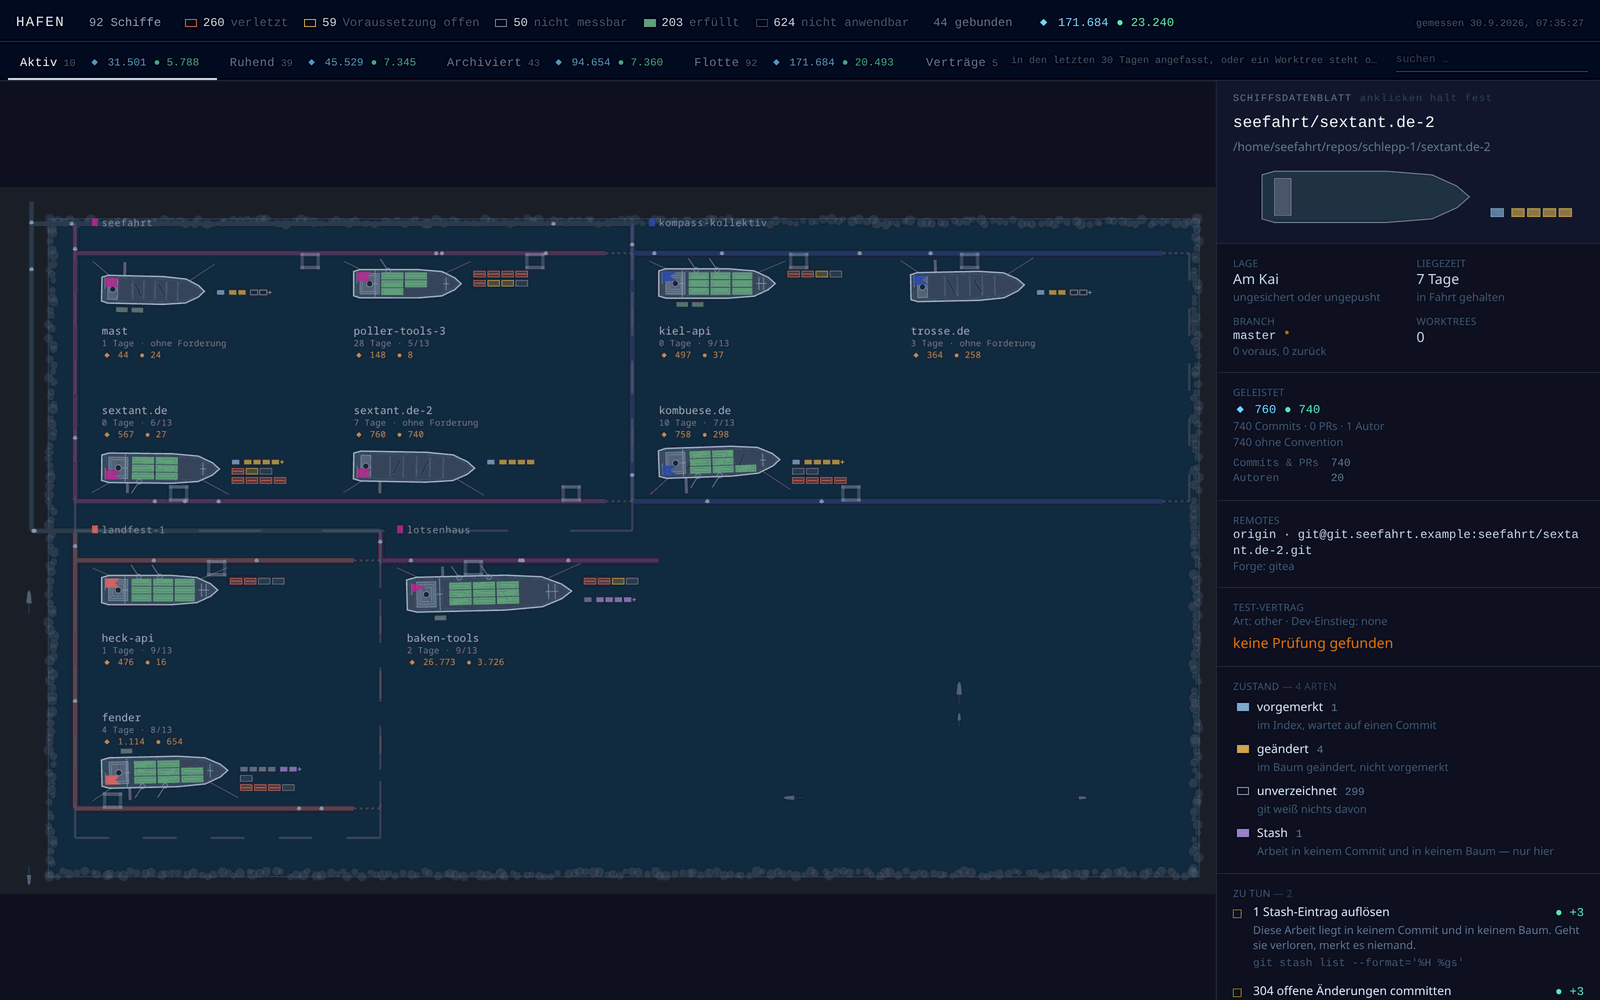
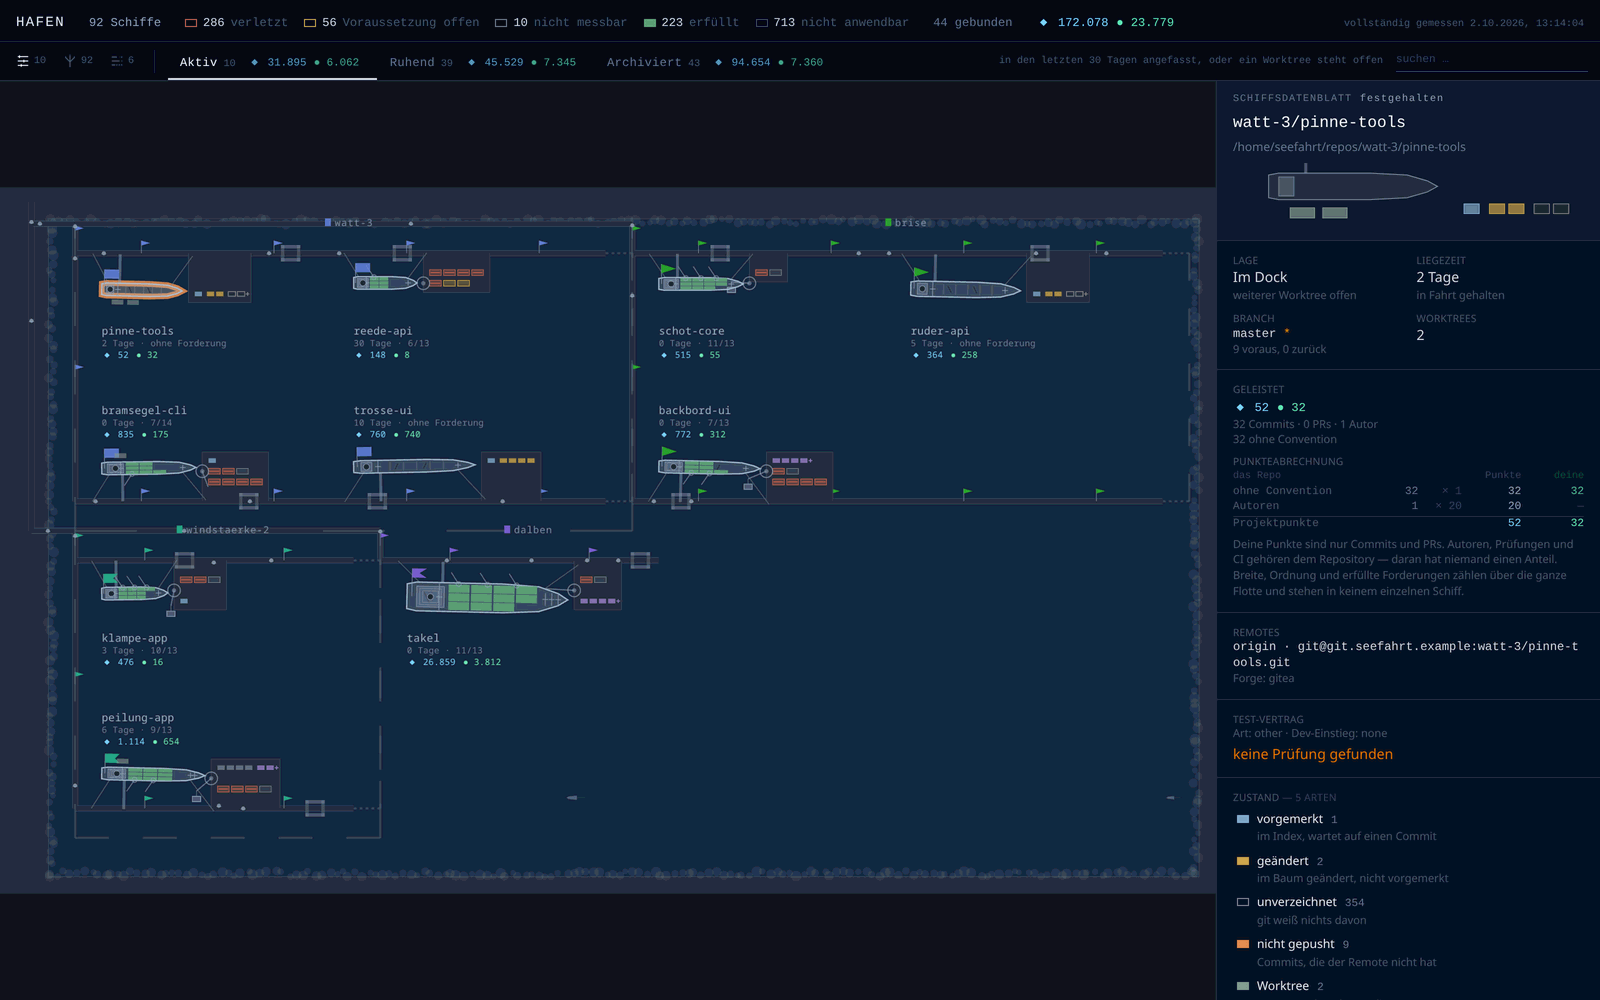
docs: frische Bilder und Direktlinks auf den letzten Release
Die drei Bilder sind neu aufgenommen, auf einem anonymisierten Schnappschuss
vom 02.10.2026. Das Flottenblatt ist inzwischen nach Reederei geordnet statt
als Faecher, das Datenblatt traegt die Punkteabrechnung, der Katalog die Quest
`aktualisierung`. Die Anonymisierung laeuft jetzt feldweise: der Schnappschuss
traegt seit dem letzten Mal Remote-URLs fremder Orgas, Lineage, Branch-Namen
und Wurzel-SHAs, ueber die sich ein Repo per Suche finden laesst.

Installieren bietet die Pakete direkt an. release-please zieht die Versionen
als generic extra-file nach. Es ersetzt je Zeile nur das erste Vorkommen,
deshalb eine Version pro Zeile und `latest/download`. Das rpm zeigt auf die
Release-Seite: `Hafen-1.0.0-1.x86_64.rpm` liest der Updater als Pre-Release
und machte daraus `Hafen-1.1.0.rpm`. Geprueft mit dem echten Generic-Updater
gegen 1.1.0 -- genau die sieben gewollten Zeilen aendern sich.

Claude-Session: https://claude.ai/code/session_01Mx2a25YLH5ayTJ76yYJ4RT

diff --git a/README.md b/README.md
@@ -3,7 +3,7 @@
 Eine Übersicht über alle Git-Repos einer Maschine: Zustand, Test-Vertrag, und was die Flotte von
 ihnen fordert — mit der Evidenz hinter jedem Urteil.
 
-![Die Flotte als Fächer: ein Ast je Organisation, ein Rumpf je Repository](docs/flotte.png)
+![Die ganze Flotte auf einem Blatt, nach Reederei: ein Rumpf je Repository](docs/flotte.png)
 
 ## Wozu
 
@@ -31,17 +31,17 @@ im schlimmsten Fall über einen neuen lesenden Aufruf.
 
 Das ist der Punkt, an dem das Vorgängerprojekt gescheitert ist: ein Agenten-Cockpit, in dem jede
 Messung die nächste Aufgabe rechtfertigte — 295 Auftragsdateien, und die Projekte, um die es ging,
-standen still. Was ein Werkzeug *tun* kann, kostet Aufmerksamkeit. Was es nur misst, nicht.
+standen still. Was ein Werkzeug _tun_ kann, kostet Aufmerksamkeit. Was es nur misst, nicht.
 
 Dieses Werkzeug läuft in achtzig-plus Arbeitsbäumen, die **nicht alle unsere** sind. Deshalb die
 Grenze, und deshalb bleibt der Store lokal.
 
-![Ein Schiff mit Datenblatt: Ladung, Flaggen, Schäden und was heute zu tun wäre](docs/schiff.png)
+![Ein Band mit festgehaltenem Schiff: Ladung und Flaggen am Schiff, Punkte und Zustand im Datenblatt](docs/schiff.png)
 
 Jedes Repository ist ein Schiff, und jedes Merkmal eine eigene Messung: die Rumpflänge sind die
 Punkte, die Masten die erfüllten Forderungen, der Rost die Liegezeit seit dem letzten Commit, die
 Figuren am Steg die Zahl der Autoren. Keine Zusammenfassung zu einer Note — ein großes Schiff mit
-verletztem Vertrag soll geschäftig *und* falsch aussehen, nicht mittelmäßig.
+verletztem Vertrag soll geschäftig _und_ falsch aussehen, nicht mittelmäßig.
 
 ## Benutzen
 
@@ -59,13 +59,37 @@ Ohne Argument steht die Hilfe da. Die Wurzel ist als zweites Argument überschre
 
 ## Installieren
 
-Gebaute Pakete hängen an jedem Release: **[Releases](https://github.com/ulfgebhardt/hafen/releases/latest)**
+<!-- x-release-please-start-version -->
 
-| Plattform | Artefakt                                            |
-| --------- | --------------------------------------------------- |
-| Linux     | `.AppImage`, `.deb`, `.rpm`                         |
-| macOS     | `.dmg` — Apple Silicon und Intel als eigene Dateien |
-| Windows   | `.msi` und `.exe` (NSIS)                            |
+**Aktuell: v1.0.0** — Changelog und alle Dateien am **[Release](https://github.com/ulfgebhardt/hafen/releases/latest)**
+
+<!-- x-release-please-end -->
+
+| Plattform           | Download                                           |
+| ------------------- | -------------------------------------------------- |
+| Linux               | [AppImage][appimage] · [deb][deb] · [rpm][release] |
+| macOS Apple Silicon | [dmg][dmg-arm]                                     |
+| macOS Intel         | [dmg][dmg-intel]                                   |
+| Windows             | [Installer (exe)][exe] · [msi][msi]                |
+
+<!--
+  release-please zieht die Versionen bei jedem Release nach (extra-files, generic). Es ersetzt
+  je Zeile nur das *erste* Vorkommen, deshalb eine Version pro Zeile und `latest/download` statt
+  `download/v…/`. Das rpm steht nicht hier: `Hafen-1.0.0-1.x86_64.rpm` liest es als Pre-Release
+  `1.0.0-1.x86_64` und machte daraus `Hafen-1.1.0.rpm`.
+-->
+<!-- x-release-please-start-version -->
+
+[appimage]: https://github.com/ulfgebhardt/hafen/releases/latest/download/Hafen_1.0.0_amd64.AppImage
+[deb]: https://github.com/ulfgebhardt/hafen/releases/latest/download/Hafen_1.0.0_amd64.deb
+[dmg-arm]: https://github.com/ulfgebhardt/hafen/releases/latest/download/Hafen_1.0.0_aarch64.dmg
+[dmg-intel]: https://github.com/ulfgebhardt/hafen/releases/latest/download/Hafen_1.0.0_x64.dmg
+[exe]: https://github.com/ulfgebhardt/hafen/releases/latest/download/Hafen_1.0.0_x64-setup.exe
+[msi]: https://github.com/ulfgebhardt/hafen/releases/latest/download/Hafen_1.0.0_x64_en-US.msi
+
+<!-- x-release-please-end -->
+
+[release]: https://github.com/ulfgebhardt/hafen/releases/latest
 
 Kein Code-Signing-Zertifikat: macOS und Windows warnen beim ersten Start, und das ist ehrlich so —
 eine Signatur kostet ein Zertifikat, das dieses Werkzeug nicht hat. Auf **macOS** hält Gatekeeper
